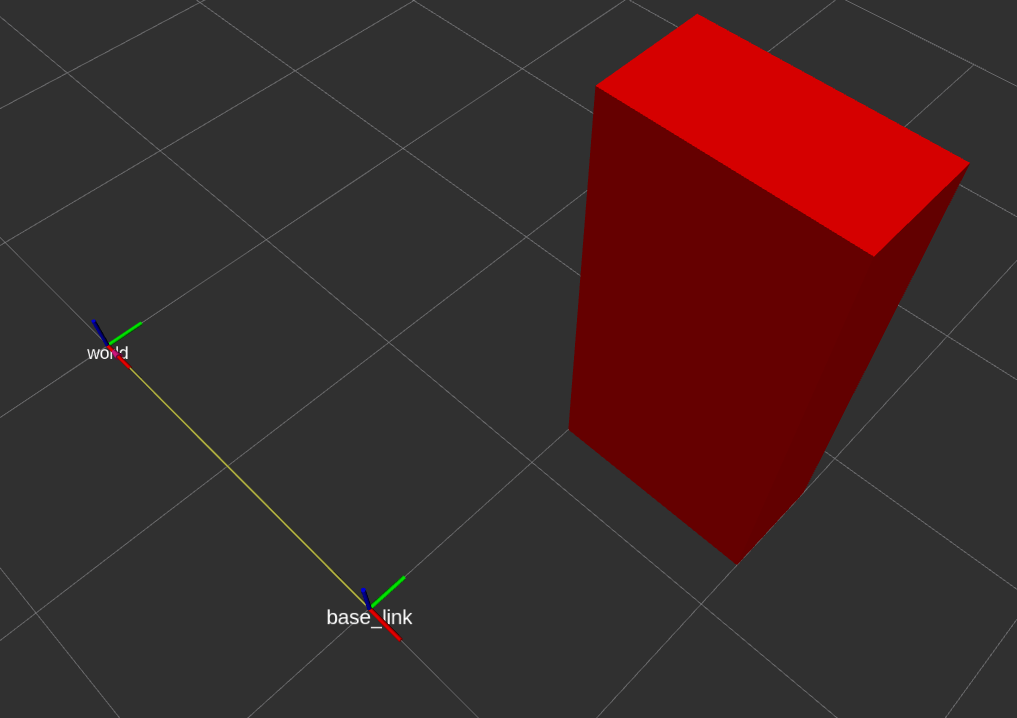
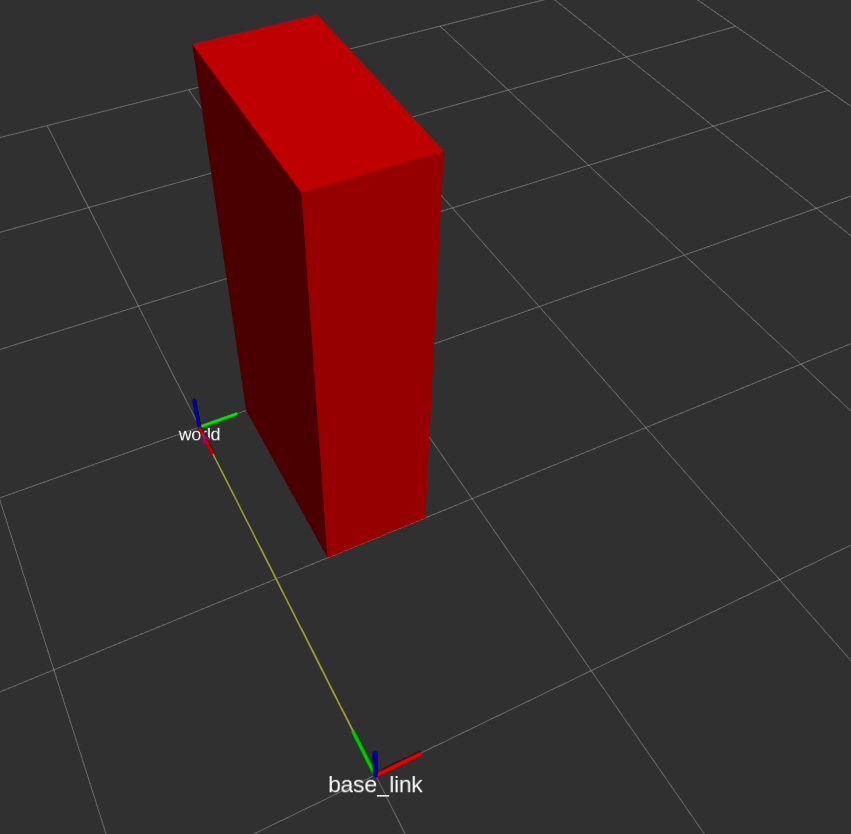
Sources before translation attempts.

diff --git a/doc/sphinx/source/c01_robot_modeling/c01s03_urdf.rst b/doc/sphinx/source/c01_robot_modeling/c01s03_urdf.rst
@@ -477,3 +477,45 @@ Les éléments de la balise **joint** que nous utiliserons le plus, sont:
 Dans le tag **origin** du tag **joint**, la position et l'orientation du repère de l'articulation par rapport au repère du parent sont définis par les attributs **xyz** et **rpy**. 
 De la même manière pour les segments (``link``), la rotation est appliquée avant la translation. 
 Dans RVIZ2, cette transformation est visible grâce à une arrête jaune terminée par une flêche qui pointe du repère enfant vers le repère parent.  |br|
+
+
+.. grid:: 1 2 2 2
+
+   .. grid-item-card::
+  
+      .. literalinclude:: resources/urdf/my03_bot.urdf
+         :language: xml
+         :linenos:
+         :caption: Ajout d'une translation pour le repère de l'articulation par rapport au repère du parent (attribut **xyz** de la balise **origin** du tag **joint**)
+
+
+   .. grid-item-card::
+
+      .. figure:: resources/img/urdf/my03_bot_rviz.png
+         :name: fig_translated_joint_element_my03_bot
+         :align: center
+         :height: 400px
+
+         Affichage d'une articulation avec RVIZ correspondant à la description URDF sur la gauche. Le lien est modélisé par la flèche jaune de ``base_link`` vers ``world`` (en cochant la case ``Show Arrows``)
+
+Le changement de repère introduit par le tag **origin** de la balise **joint** s'effectue avant la transofrmation du segment (balise **link**).
+De même que pour la balise joint, la rotation est effectuée avant la translation (le repère tourne autour de l'origine du repère parent, puis est translaté). La rotation et la translation sont exprimées dans le repère du parent.  |br|
+
+.. grid:: 1 2 2 2
+
+   .. grid-item-card::
+  
+      .. literalinclude:: resources/urdf/my04_bot.urdf
+         :language: xml
+         :linenos:
+         :caption: Ajout d'une rotation pour le repère de l'articulation par rapport au repère du parent (attribut **rpy** du tag **origin** du tag **joint**).
+
+
+   .. grid-item-card::
+
+      .. figure:: resources/img/urdf/my04_bot.png
+         :name: fig_tr_rot_joint_element_my04_bot
+         :align: center
+         :height: 400px
+
+         Rotation du repère de l'articulation en plus de la translation. Notez que la rotation est effectuée avant la translation (si cela avait été l'inverse, l'arrête jaune serait alignée avec l'axe vert du repère ``world``).

diff --git a/doc/sphinx/source/c01_robot_modeling/c01s06_sdf.rst b/doc/sphinx/source/c01_robot_modeling/c01s06_sdf.rst
@@ -10,7 +10,7 @@ Il ne s'agit donc plus d'appliquer de manière itérative les transformations as
 
 La description URDF, qui n'accepte que des arbres cinématique n'est donc pas adaptée à cette représentation.
 
-ROS et RVIZ ne permettent pas de gérer directement les chaînes cinématiques fermées.
+ROS2 et RVIZ ne permettent pas de gérer directement les chaînes cinématiques fermées.
 
 -------------------
 Afficher dans RVIZ
@@ -25,6 +25,6 @@ Et il faut utiliser du code qui permet de calculer les positions des segments en
 Représentation SDF
 -------------------
 
-Il existe une solution qui permet de faire automatiquement les calculs de contrainte liés aux chaînes fermés en utilisant Gazebo comme solveur.
+Il existe une solution qui permet de faire automatiquement les calculs de contraintes liées aux chaînes fermées en utilisant Gazebo comme solveur.
 
 La solution est de passer par un format de description de robot plus général, le format SDF, utilisé par Gazebo et qui prend en compte les chaînes cinématiques fermées.

diff --git a/doc/sphinx/source/c01_robot_modeling/c01s04_urdf_practical.rst b/doc/sphinx/source/c01_robot_modeling/c01s04_urdf_practical.rst
@@ -36,9 +36,9 @@ Les maillages des segments du scanbot au format step sont les suivants:
    À partir des maillages ci-dessus au format step, utilisez un logiciel de CAO pour les convertir au format collada (.dae).
    Indice: Utilisez le logiciel FreeCAD.
 
-.. admonition:: Exercice avancé
+.. .. admonition:: Exercice avancé
 
-   À partir de l'API python de FreeCAD, écrivez un script qui automatise la conversion des fichiers step en fichiers collada.
+..    À partir de l'API python de FreeCAD, écrivez un script qui automatise la conversion des fichiers step en fichiers collada.
 
 Format collada (.dae)
 ^^^^^^^^^^^^^^^^^^^^^

diff --git a/doc/sphinx/source/c01_robot_modeling/c01s02_robot_descriptions.rst b/doc/sphinx/source/c01_robot_modeling/c01s02_robot_descriptions.rst
@@ -1,6 +1,6 @@
-================================
-Descriptions de robots avec ROS
-================================
+=================================
+Descriptions de robots avec ROS2
+=================================
 
 Le but de la description d'un robot est d'avoir un modèle servant à la fois à la simulation et au contrôle du robot:
 
